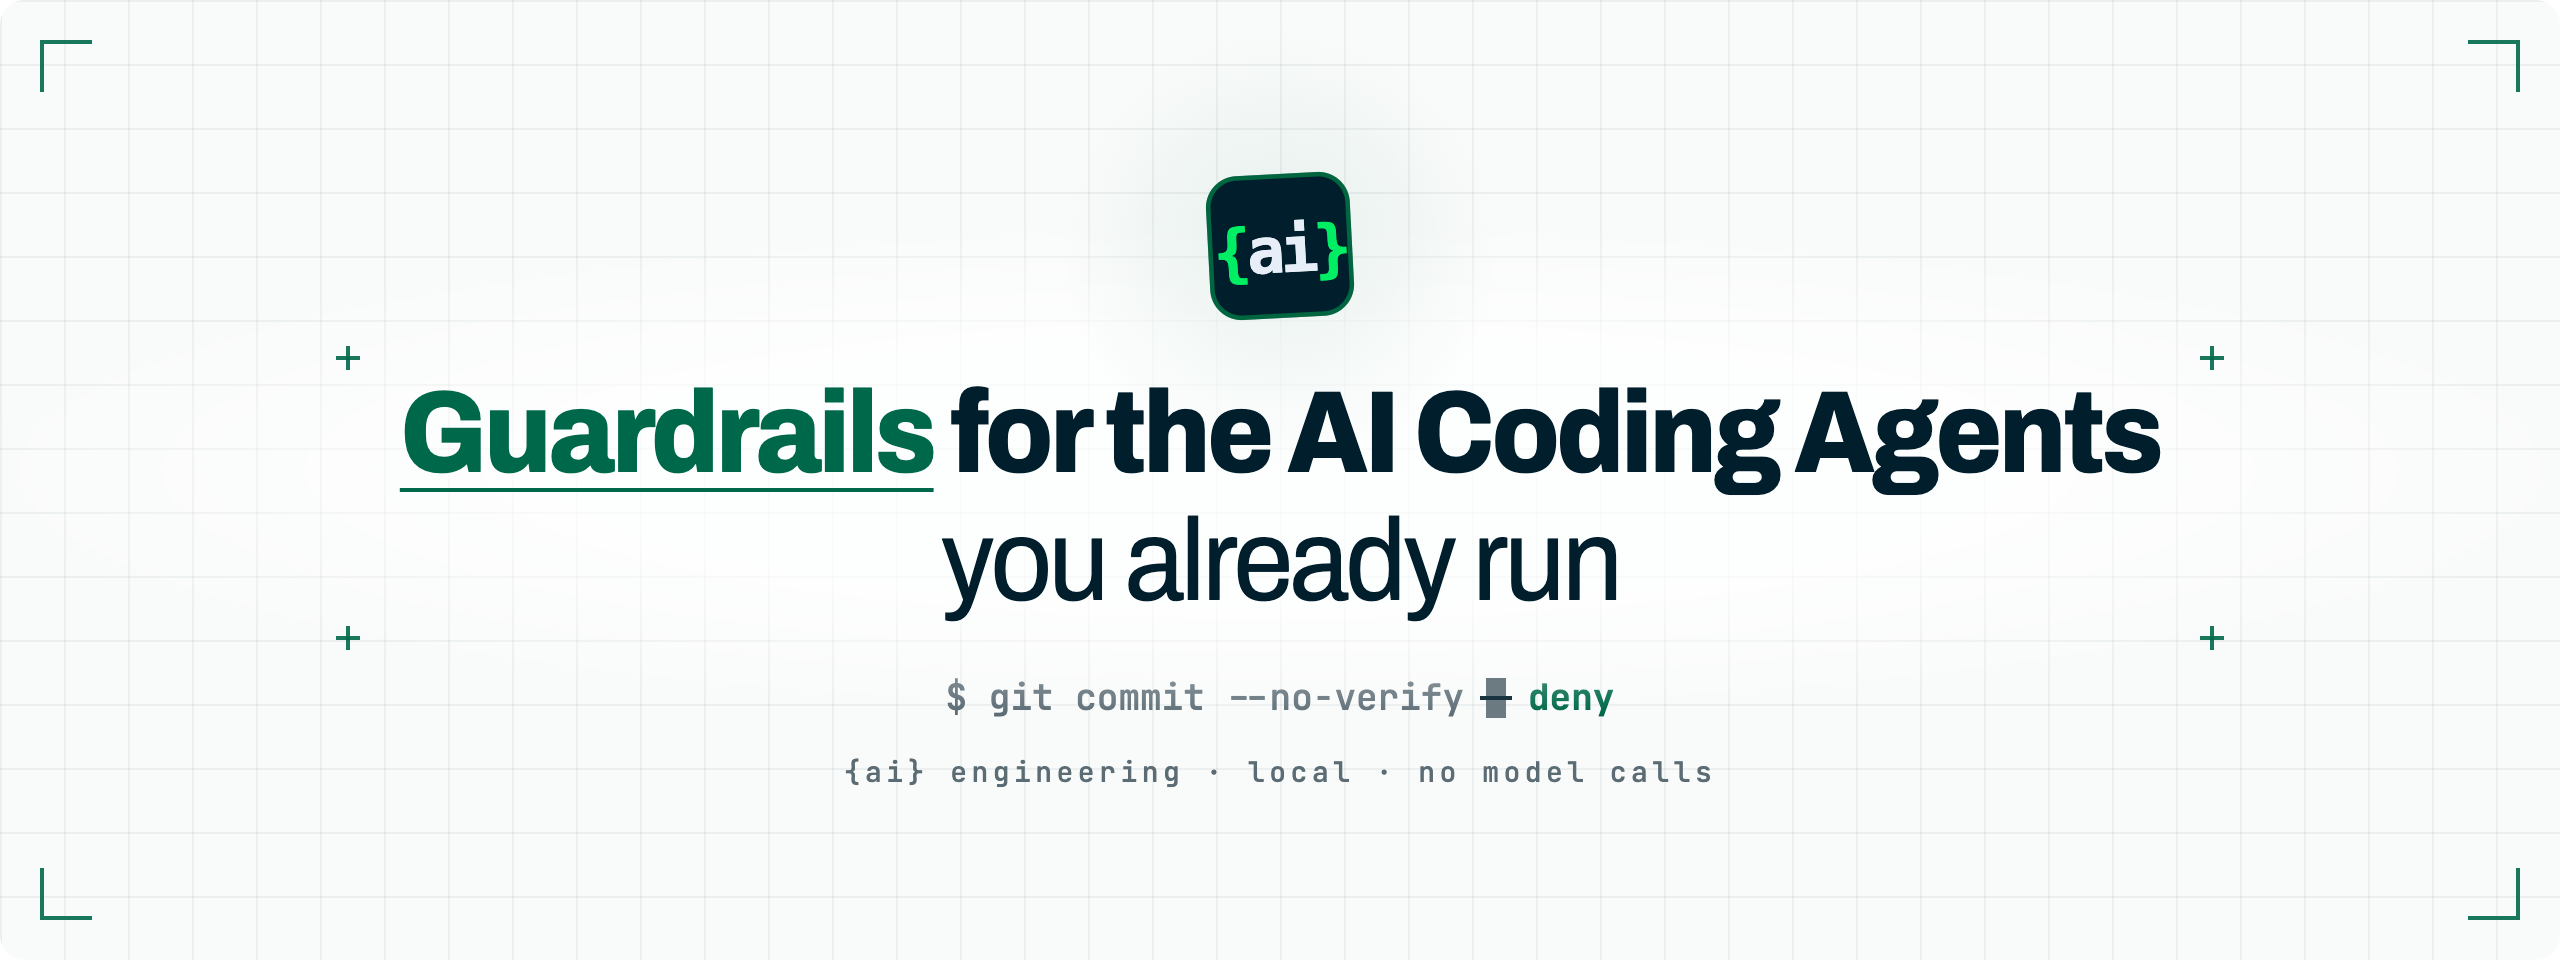
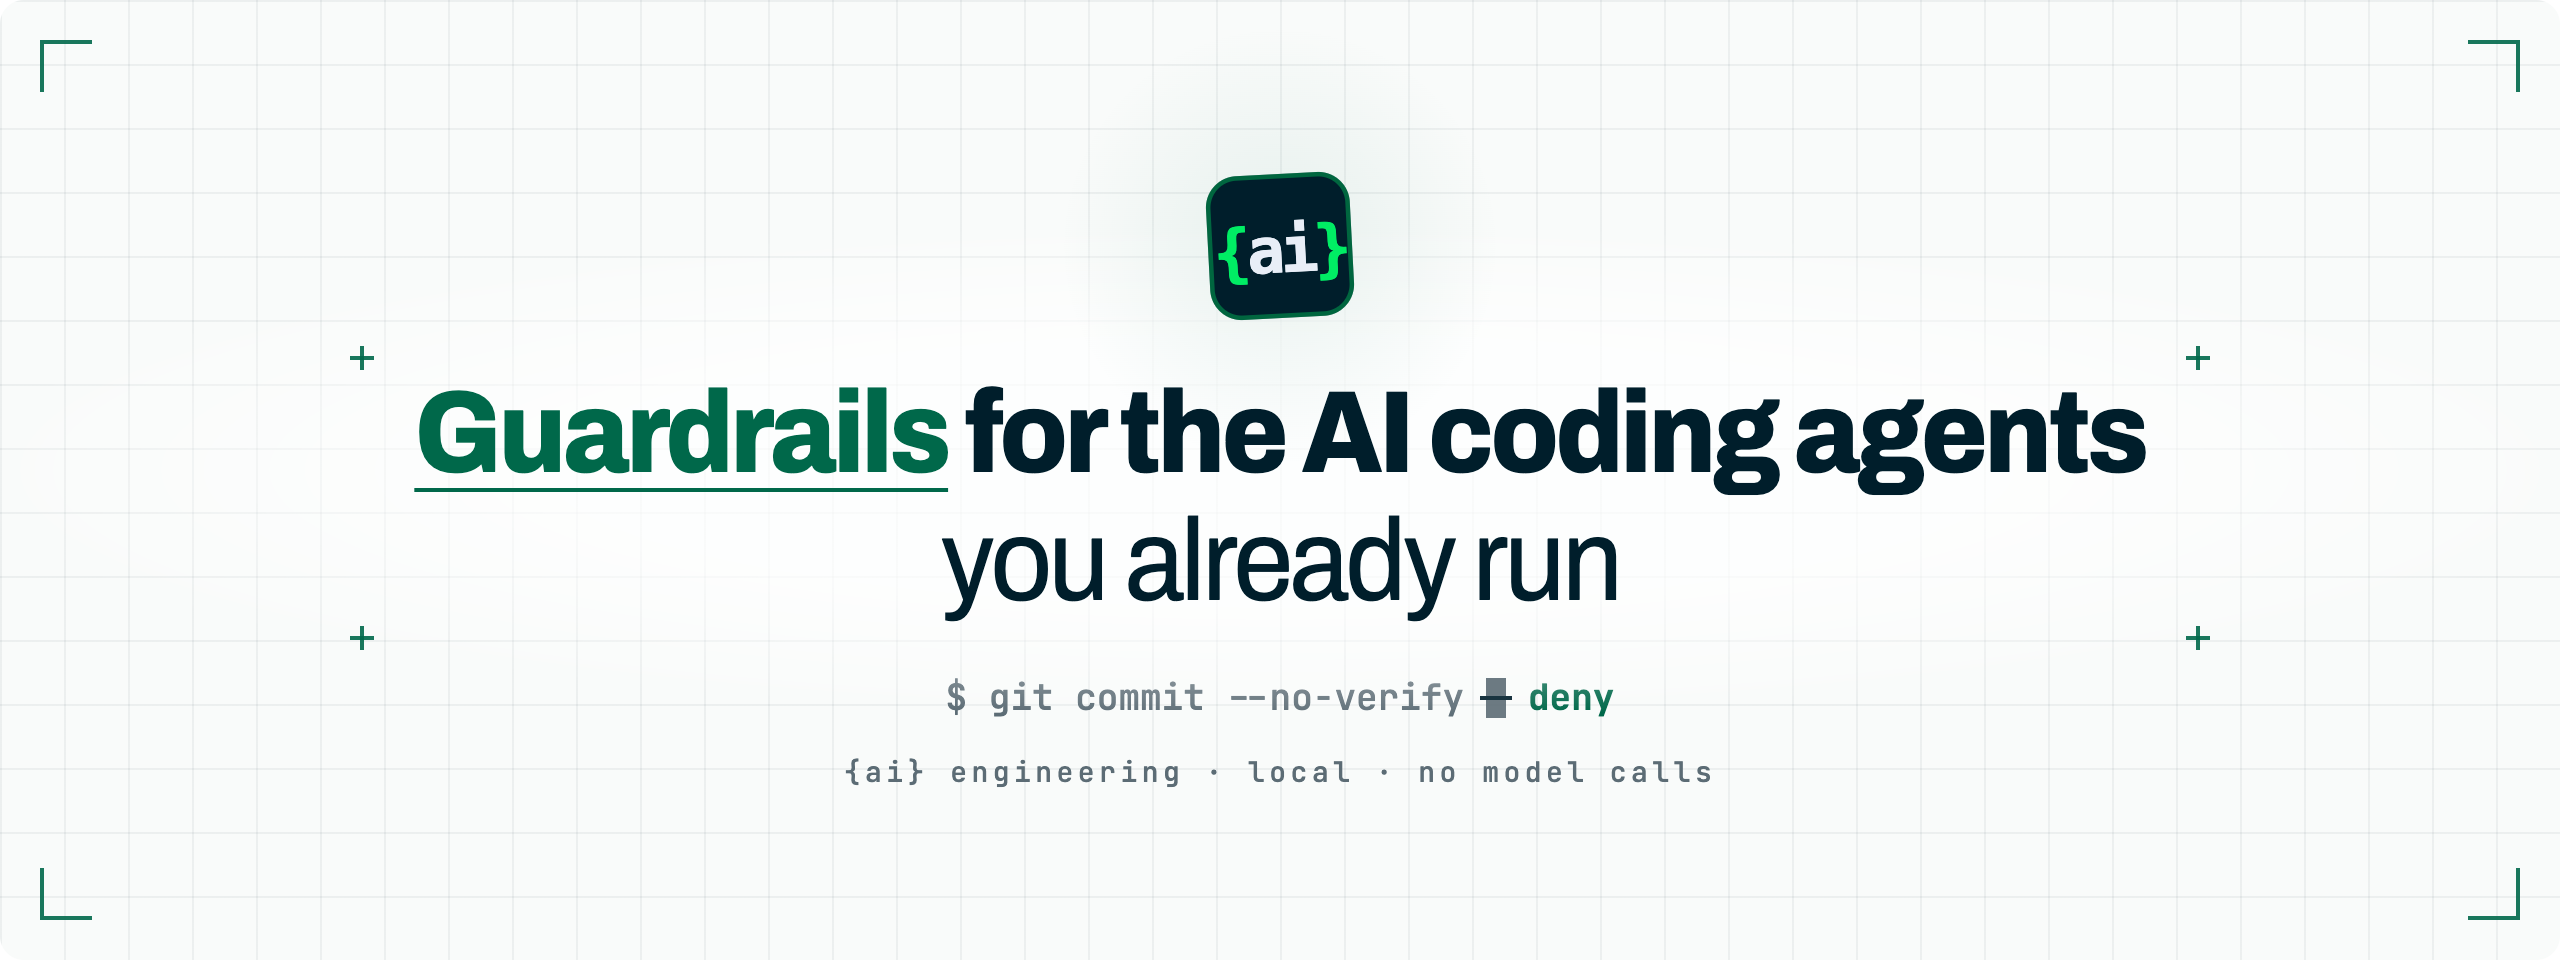
feat(cli): retire the public findings check verb (#842)
* refactor(cli)!: move findings check to scripts

`ai-eng findings check` read the review rounds of one external pipeline,
annotated findings and never gated, so it read as a user-facing verb with
no user behind it. Removing a public verb is a contract change, hence the
major changeset.

Placement is decided by consumers, not by taste: no hook, CI template,
skill, agent or docs workflow in this repo runs it; `gh search code` finds
zero uses of `ai-eng findings` or `shared-findings` anywhere in
arcasilesgroup; and package.json `files` ships bin, src, skills, agents,
generated and templates, so scripts/ was never in the published tarball.
Only this repository's own review rounds used it, which is what scripts/
is for.

Its tests move with it and keep passing; the `check` subcommand word is
gone because a script has no verbs.

Receipt-Id: 4af06bdc

* docs: one product sentence for package and hero

The package description, the GitHub About text and the README hero each
said something different about the same product, so no two readers met
the same claim. The hero sentence wins, in sentence case: "Guardrails for
the AI coding agents you already run".

"prove every run" is dropped: it promised a property the tool does not
measure. The hero image is regenerated from the same claim string, so the
art and the alt text cannot drift apart.

GitHub About is set by hand after merge, not from here.

Receipt-Id: 0974668c

* chore(document): Refresh verb counts in CLI and Sonar comments
[…]

Changed region(s): [[0.1562, 0.4062, 0.5938, 0.5], [0.6875, 0.4062, 0.8438, 0.5312], [0.625, 0.4375, 0.6562, 0.4688]]

diff --git a/scripts/findings-check.ts b/scripts/findings-check.ts
@@ -1,12 +1,24 @@
-// `ai-eng findings check` — read a run's review rounds, attach the evidence a program can
+// scripts/findings-check.ts — read a run's review rounds, attach the evidence a program can
 // check, and print one count line. It never removes a finding: the module that decides
-// which signals exist says why (src/shared-findings.ts), and the verb's only write is to
-// stdout. It is an instrument, not a gate, so a hit is not a failure.
+// which signals exist says why (scripts/findings-signals.ts), and the script's only write
+// is to stdout. It is an instrument, not a gate, so a hit is not a failure.
+//
+// A maintainer script, not a CLI verb: nothing shipped to a governed repository runs it.
+// It measures how precise each signal is on this repository's own review rounds.
+//
+// An annotation means the evidence for that signal was found and is printed under the
+// finding. It is not a verdict: no signal is provably false on its own and real findings
+// trip all of them. Read it as "a check against the diff or earlier rounds matched, and
+// here is where it looked", then judge the finding as you would without it.
+//
+// Usage: bun scripts/findings-check.ts <rounds.json|-> [--json] [--round <n>] [--base <rev>] [--head <rev>]
+//        no-mistakes axi rounds --step review --json | bun scripts/findings-check.ts -
 
 import { readFileSync } from "node:fs";
-import { repoRoot } from "../env.ts";
-import { namedBaseTrackingRef } from "../git/context.ts";
-import { runGit } from "../git/run.ts";
+import { parseArgs } from "node:util";
+import { repoRoot } from "../src/env.ts";
+import { namedBaseTrackingRef } from "../src/git/context.ts";
+import { runGit } from "../src/git/run.ts";
 import {
   checkFindings,
   formatCountLine,
@@ -17,10 +29,9 @@ import {
   type RepoFacts,
   type RoundDocument,
   type RoundSelection,
-} from "../shared-findings.ts";
-import { verbUsage } from "../shared-verbs.ts";
+} from "./findings-signals.ts";
 
-const USAGE = verbUsage("findings");
+const USAGE = "usage: bun scripts/findings-check.ts <rounds.json|-> [--json] [--round <n>] [--base <rev>] [--head <rev>]";
 
 export type FindingsFlags = { json?: boolean; round?: string; base?: string; head?: string };
 
@@ -151,12 +162,8 @@ function requestedRound(flags: FindingsFlags): number | undefined | string {
 }
 
 export function findingsMain(args: string[], flags: FindingsFlags): number {
-  if (args[0] !== "check" || args.length > 2) {
-    process.stderr.write(`${USAGE}\n`);
-    return 2;
-  }
-  const source = args[1];
-  if (source === undefined) {
+  const source = args[0];
+  if (source === undefined || args.length > 1) {
     process.stderr.write(`${USAGE}\n`);
     return 2;
   }
@@ -191,4 +198,13 @@ export function findingsMain(args: string[], flags: FindingsFlags): number {
   process.stdout.write(`${formatCountLine(result.counts)}\n`);
   if (annotated.length > 0) process.stdout.write(`${annotated.join("\n")}\n`);
   return 0; // An instrument: a hit is evidence, never a failing check.
+}
+
+if (import.meta.main) {
+  const { values, positionals } = parseArgs({
+    args: process.argv.slice(2),
+    allowPositionals: true,
+    options: { json: { type: "boolean" }, round: { type: "string" }, base: { type: "string" }, head: { type: "string" } },
+  });
+  process.exit(findingsMain(positionals, values));
 }

diff --git a/src/shared-verbs.ts b/src/shared-verbs.ts
@@ -112,20 +112,6 @@ export const MACHINE_VERBS: readonly VerbEntry[] = [
     flags: [{ flag: "--force", helps: "on rm: also permanently delete ignored files inside the checkout" }],
     note: "A lane is one branch in its own checkout. merge lands it; rm removes the checkout, never the branch.",
   },
-  {
-    verb: "findings",
-    description: "annotate the findings of a git diff review",
-    usage: "ai-eng findings check <rounds.json|-> [--json] [--round <n>] [--base <rev>] [--head <rev>]",
-    flags: [
-      { flag: "--json", helps: "counts and per-finding verdicts as one JSON object" },
-      { flag: "--round", helps: "read round n of a document that holds several" },
-      { flag: "--base", helps: "the commit the review started from; inferred from the document, else from the merge base with trunk" },
-      { flag: "--head", helps: "the commit the review looked at; the document's when it names one, else HEAD" },
-    ],
-    note:
-      "It attaches the evidence a program can check to each finding of a review of a git diff: the file and line the finding cites, the lines the diff added, and the ids earlier rounds declined or later fixed. The annotation is a note, not a verdict: nothing is removed and a hit exits 0.\n\n" +
-      "The generic input is a `{findings: [...]}` file plus --base and --head. A review tool that prints its rounds as JSON can be piped in instead: `no-mistakes` is a review pipeline whose `axi` command does it, as in `no-mistakes axi rounds --step review --json` (that is the worked example, not a requirement).",
-  },
 ];
 
 /** Every verb, in help order: the menu, the help and the refusal all read this list. */
@@ -145,7 +131,7 @@ export function verbUsage(verb: string): string {
 
 /** `ai-eng <verb> --help`, or null for a verb this binary does not have. The caller
  *  falls back to the global menu only when nothing was named: someone who asked about
- *  `findings` is not asking what `ai-eng` is. */
+ *  `worktree` is not asking what `ai-eng` is. */
 export function renderVerbHelp(verb: string): string | null {
   const entry = ENTRIES.find((candidate) => candidate.verb === verb);
   if (entry === undefined) return null;

diff --git a/src/cli.ts b/src/cli.ts
@@ -16,7 +16,6 @@ import { uninstallMain } from "./commands/uninstall.ts";
 import { configMain } from "./commands/config.ts";
 import { worktreeMain } from "./commands/worktree.ts";
 import { workMain } from "./commands/work.ts";
-import { findingsMain } from "./commands/findings.ts";
 import { wrapMain } from "./wrap/index.ts";
 import { floor } from "./floor/entry.ts";
 import { suggestVerb, renderVerbHelp, HUMAN_VERBS, MACHINE_VERBS, ALL_VERBS } from "./shared-verbs.ts";
@@ -60,7 +59,7 @@ if (flags.version && !isRefreshChild) {
   process.exit(0);
 }
 /** The whole map, on two labelled groups: who runs the verb is the first thing a reader
- *  needs and the one thing a flat list of eleven lines hides. */
+ *  needs and the one thing a flat list of ten lines hides. */
 function showMenu(): void {
   showLogo(VERSION);
   const nameWidth = Math.max(...[...HUMAN_VERBS, ...MACHINE_VERBS].map((entry) => entry.verb.length)) + 2;
@@ -85,7 +84,7 @@ if (!isRefreshChild && flags.help) {
     process.exit(0);
   }
   // An unknown verb keeps the unknown-verb error below: it names the nearest verb, and
-  // the menu would bury the typo under eleven lines nobody asked about.
+  // the menu would bury the typo under ten lines nobody asked about.
 }
 if (!isRefreshChild && verb === undefined) {
   showMenu();
@@ -159,13 +158,6 @@ const verbMain: Record<string, () => number | Promise<number>> = {
   },
   update: () => updateMain({ yes: flags.yes === true }),
   work: () => workMain(flags._.slice(1).map(String), { json: flags.json === true, ...(typeof flags.until === "string" ? { until: flags.until } : {}) }),
-  findings: () =>
-    findingsMain(flags._.slice(1).map(String), {
-      json: flags.json === true,
-      ...(typeof flags.round === "string" ? { round: flags.round } : {}),
-      ...(typeof flags.base === "string" ? { base: flags.base } : {}),
-      ...(typeof flags.head === "string" ? { head: flags.head } : {}),
-    }),
   uninstall: () => uninstallMain(),
 };
 const unhandledVerbs = ALL_VERBS.filter((name) => !(name in verbMain));

diff --git a/tests/findings-check.spec.ts b/tests/findings-check.spec.ts
@@ -10,7 +10,7 @@ import { afterAll, describe, expect, test } from "bun:test";
 import { mkdirSync, mkdtempSync, readFileSync, rmSync, writeFileSync } from "node:fs";
 import { tmpdir } from "node:os";
 import { join } from "node:path";
-import { gitFacts, parseAddedLines, resolveRevisions, findingsMain } from "../src/commands/findings.ts";
+import { gitFacts, parseAddedLines, resolveRevisions, findingsMain } from "../scripts/findings-check.ts";
 import { runGit } from "../src/git/run.ts";
 import {
   absenceTokens,
@@ -23,7 +23,7 @@ import {
   type CheckInput,
   type Finding,
   type RepoFacts,
-} from "../src/shared-findings.ts";
+} from "../scripts/findings-signals.ts";
 
 const FIXTURES = join(import.meta.dir, "fixtures", "findings");
 const HEAD = "b35f722fba2a49f8f9ea2c086ae6c85f5d98ec1a";
@@ -819,16 +819,16 @@ describe("lineCount", () => {
   });
 });
 
-describe("the verb", () => {
-  test("a missing subcommand is usage, not a failure", () => {
+describe("the script", () => {
+  test("a missing input is usage, not a failure", () => {
     expect(findingsMain([], {})).toBe(2);
   });
 
   test("input it cannot read exits 1 with a reason, because the count line would be a lie", () => {
-    expect(findingsMain(["check", join(tmpdir(), "ai-eng-findings-does-not-exist.json")], {})).toBe(1);
+    expect(findingsMain([join(tmpdir(), "ai-eng-findings-does-not-exist.json")], {})).toBe(1);
   });
 
   test("a round that is not a round number is refused before any git runs", () => {
-    expect(findingsMain(["check", join(FIXTURES, "rounds-hardening.json")], { round: "three" })).toBe(1);
+    expect(findingsMain([join(FIXTURES, "rounds-hardening.json")], { round: "three" })).toBe(1);
   });
 });

diff --git a/tests/verb-help.spec.ts b/tests/verb-help.spec.ts
@@ -2,7 +2,7 @@
 // global menu must say which group runs which verb.
 //
 // Both were false for every verb at once: cli.ts intercepted --help before dispatch, so
-// `ai-eng findings --help` printed the eleven-line menu and not one flag was discoverable
+// `ai-eng worktree --help` printed the ten-line menu and not one flag was discoverable
 // from the CLI. A unit test over the data would have stayed green while the dispatch kept
 // short-circuiting, so the gate for the first is the spawned binary, verb by verb.
 import { afterAll, beforeAll, describe, expect, test } from "bun:test";

diff --git a/scripts/readme-assets.ts b/scripts/readme-assets.ts
@@ -64,7 +64,7 @@ export const BUTTONS: readonly Button[] = [
 /** The hero copy and canvas: tilted brand/mark.svg on a soft glow, two-weight claim, refused-call line, and mono ledger. */
 export const HERO = {
   wordmark: "{ai} engineering",
-  claim: "Guardrails for the AI Coding Agents you already run",
+  claim: "Guardrails for the AI coding agents you already run",
   accent: "Guardrails",
   lightFrom: "you already run",
   command: "git commit --no-verify",

diff --git a/scripts/findings-signals.ts b/scripts/findings-signals.ts
@@ -1,4 +1,4 @@
-// src/shared-findings.ts — the review-finding filter, shrunk to its honest form:
+// scripts/findings-signals.ts — the review-finding filter, shrunk to its honest form:
 // annotate and count, never drop.
 //
 // Why it does not drop: the replay over 120 real review findings from this pipeline found

diff --git a/FILEMAP.md b/FILEMAP.md
@@ -19,7 +19,7 @@ docs/
   global-carriers.md           Host carrier paths and their machine/repository scope
   surface-capability-matrix.md What each host can enforce, measured; the table doctor and the README follow
   install.md                   Install edge cases: from source, no administrator rights, the Windows gitleaks fallback
-  cli.md                       Every CLI verb, by who runs it, and how to read a findings check
+  cli.md                       Every CLI verb, by who runs it
   lanes.md                     One task, one lane: list, tidy, park, drop, worktrees
   configuration.md             config.toml tables, the command-scope policy, the surface tiers
   git-floor.md                 Every commit route, which ones the Conventional Commits rule judges, and the bypasses it writes down
@@ -41,7 +41,6 @@ docs/
 src/
   payload.ts                   Normalized tool payloads and shared call fingerprints
   commands/
-    findings.ts                CLI parser and Git-backed runner for `ai-eng findings check`
     worktree.ts                CLI parser for new, list, merge, request-changes and rm
   git/
     run.ts                     The one Git runner: status, raw stdout/stderr, optional global/system-config isolation, commit identity
@@ -53,7 +52,6 @@ src/
     checkpoint.ts              Checkpoint schema, lifecycle transitions, legacy normalization and brainstorm approval
   guards/
     checkpoint.ts              Checkpoint schema, lifecycle, gate order and Stop enforcement in the chain
-  shared-findings.ts           Pure review-finding signal checks, tallies and round parsing
   shared-hash.ts               Shared SHA-256 file hashing helper
   shared-project-fs.ts         Guarded project-path reads and writes: refuse links and paths that leave the repository
 tests/
@@ -80,6 +78,8 @@ scripts/
   release-sbom.ts              Runtime-only CycloneDX SBOM for a packed tarball, named by its sha256
   release-policy.ts            Release gate: signed annotated tag on the dispatched SHA by an allowlisted key, verified NOTICE.md rights
   sync-ci-template-pins.ts     `bun run version-packages` step: rewrite AI_ENG_VERSION in both CI templates from package.json
+  findings-check.ts            Maintainer instrument: annotate a review round's findings with the evidence Git can check; never a gate
+  findings-signals.ts          Pure review-finding signal checks, tallies and round parsing for findings-check.ts
 skills/                        Installed skill canon
   ai-brainstorm/SKILL.md       Interview, classify and record approved feature intent
   ai-orchestrator/SKILL.md     Gated feature workflow in the selected checkout

diff --git a/docs/cli.md b/docs/cli.md
@@ -17,41 +17,16 @@ ai-eng work        # list the lanes; tidy, park or drop one
 ai-eng uninstall   # remove everything it installed, keep your files
 ```
 
-Five commands for hooks, CI and agents:
+Four commands for hooks, CI and agents:
 
 ```bash
 echo "$PAYLOAD" | ai-eng chain PreToolUse   # judge one tool call: JSON in, JSON out
 ai-eng git pre-commit                       # the pre-commit, commit-msg and pre-push checks
 ai-eng wrap test --base64 <encoded command> # run tests, print only the failures
 ai-eng worktree new <branch>                # start a lane checkout (also: list, merge, rm, request-changes)
-ai-eng findings check <rounds.json|->       # annotate the review findings a program can check
 ```
 
 Only the `wrap` guard writes its form: it encodes a recognised test command and hands the agent
 `ai-eng wrap test --base64 <encoded test command>`, which runs the real runner and prints the
 failures. The encoded form is the whole command as one shell-safe token, so nothing is re-quoted and
 nothing is escaped twice.
-
-### Reading a findings check
-
-`ai-eng findings check` annotates the findings of a review of a git diff. It attaches the evidence
-a program can check — the file and line the finding cites, the lines the diff added, and the ids
-earlier rounds declined or later fixed — and prints one count line, followed by any annotations:
-how many findings the round produced, how many carry a signal, how many are clean, and, of the
-annotated ones, how many were selected for fixing in that round or a later one.
-
-It reads that review from one of two inputs:
-
-- **A `{findings: […]}` file**, with `--base` and `--head` naming the diff the review covered. This
-  is the generic shape and it needs nothing else to exist.
-- **Review rounds as JSON**, printed by a review tool. `no-mistakes` is one: a review pipeline that
-  runs automated reviews in rounds, whose `axi` command prints them
-  (`no-mistakes axi rounds --step review --json`). That command is the worked example, not a
-  requirement.
-
-An annotation means the evidence for that signal was found and is printed under the finding; it is a
-note attached to a finding, not a verdict about it, and it never removes one. It does not mean the
-finding is wrong — no signal here is provably false on its own, and real findings trip all of them —
-it does not mean the reviewer was careless, and it is not a gate, because the verb exits 0 with a
-hit. Read it as "a check against the diff or earlier rounds matched, and here is where it looked",
-then judge the finding exactly as you would without it.

diff --git a/.changeset/findings-check-to-scripts.md b/.changeset/findings-check-to-scripts.md
@@ -1,0 +1,5 @@
+---
+"ai-engineering": major
+---
+
+The `ai-eng findings check` verb is removed from the public CLI. It reads the review rounds of one external pipeline, annotates findings and never gates, and nothing shipped to a governed repository (no hook, CI template, skill or agent) ever ran it: it was a maintainer instrument for measuring signal precision on this repository's own reviews. It now lives at `scripts/findings-check.ts` with its tests, run as `bun scripts/findings-check.ts <rounds.json|->` (the `check` word is gone). The package description now reads "Guardrails for the AI coding agents you already run", the same sentence as the README hero.

diff --git a/README.md b/README.md
@@ -2,7 +2,7 @@
 
 <h1><picture>
   <source media="(prefers-color-scheme: dark)" srcset=".github/assets/readme/hero-dark.webp">
-  <img src=".github/assets/readme/hero-light.webp" alt="{ai} engineering. Guardrails for the AI Coding Agents you already run" width="100%">
+  <img src=".github/assets/readme/hero-light.webp" alt="{ai} engineering. Guardrails for the AI coding agents you already run" width="100%">
 </picture></h1>
 
 <b>Turn any repo into a governed workspace.</b><br/>
